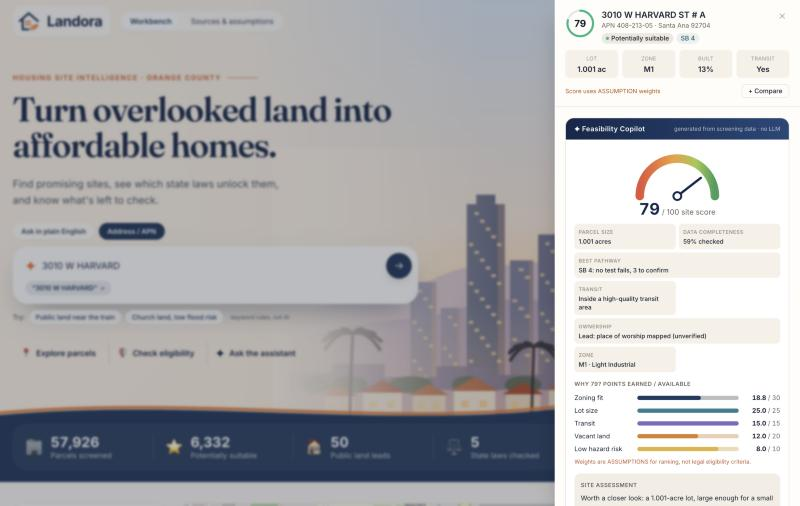
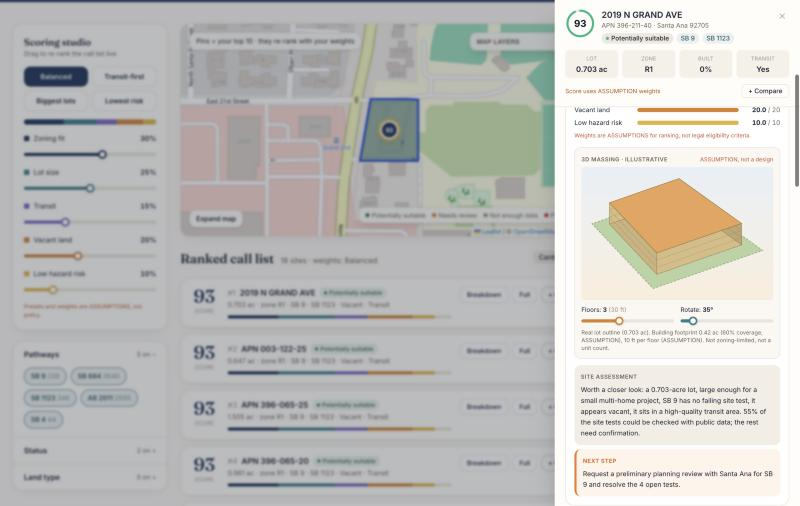
Film: community, intelligence and technology scenes, new design screens
72-second film. New scenes: who the tool helps (with live counts),
where the intelligence is (built with Claude vs rules over data inside
the app, stated plainly), and the technology stack. Montage now uses
current screens: landing page, dashboard and the Feasibility Copilot
with the 3D massing.

diff --git a/lanes/1-find-it/oc-housing-finder/app/src/app/film/page.tsx b/lanes/1-find-it/oc-housing-finder/app/src/app/film/page.tsx
@@ -5,7 +5,7 @@
 import { useEffect, useRef, useState } from "react";
 import { Muxer, ArrayBufferTarget } from "mp4-muxer";
 
-const W = 1920, H = 1080, FPS = 30, DUR = 50;
+const W = 1920, H = 1080, FPS = 30, DUR = 72;
 const IV = "#FAF7F2", PAPER = "#FFFDF9", INK = "#1B2433", MUTED = "#6B6458", LINE = "#E9E2D6";
 const NAVY = "#1f3a5f", TEAL = "#2a7f8f", VIOLET = "#7c6bc4", AMBER = "#d9822b", SAFFRON = "#e2b33c", TERRA = "#c2562e", SAGE = "#3f7d5c";
 const FACT = [
@@ -218,18 +218,81 @@ function frame(g: CanvasRenderingContext2D, t: number, d: Data) {
       text(g, h, 210, y + 88, { size: 40, w: 700, a: a * clamp(p) }); text(g, l, 520, y + 88, { size: 36, a: a * clamp(p) }); text(g, r, 1150, y + 88, { size: 36, w: 600, c, a: a * clamp(p) }); });
     caption(g, "Sources disagree, and the tool shows it instead of picking one", a * ease(seg(t, 40, 40.5)));
   }
-  // S8 App montage 43-47.5
-  if (t >= 43 && t < 48) {
-    const a = ease(seg(t, 43, 43.6)) * (1 - seg(t, 47.4, 48));
+  // S7b Who it helps 43-50.5
+  if (t >= 43 && t < 51) {
+    const a = ease(seg(t, 43, 43.6)) * (1 - seg(t, 50.4, 51));
+    text(g, "Who it helps", 160, 200, { font: "d", size: 76, w: 600, a });
+    text(g, "Land is the biggest line on the bill, and small teams can't see it.", 160, 262, { size: 36, c: MUTED, a });
+    const people: [string, string, string, string][] = [
+      ["Small housing nonprofits", "Get a ranked call list without a GIS team", "🏘", NAVY],
+      ["Congregations with a lot", "See if their land could host homes (SB 4)", "⛪", TERRA],
+      ["City housing staff", "Flag hazards and stale site lists first", "🏛", TEAL],
+    ];
+    people.forEach(([h, sub, ic, c], i) => {
+      const p = outBack(seg(t, 44 + i * 0.6, 44.8 + i * 0.6)); const x = 160 + i * 560, y = 330 + (1 - clamp(p)) * 60;
+      card(g, x, y, 520, 330, a * clamp(p));
+      g.save(); g.globalAlpha = a * clamp(p); rr(g, x + 36, y + 36, 96, 96, 24); g.fillStyle = c; g.fill(); g.restore();
+      text(g, ic, x + 84, y + 106, { size: 52, align: "center", a: a * clamp(p), c: "#fff" });
+      text(g, h, x + 36, y + 205, { size: 38, w: 700, a: a * clamp(p) });
+      text(g, sub.length > 34 ? sub.slice(0, sub.lastIndexOf(" ", 34)) : sub, x + 36, y + 255, { size: 28, c: MUTED, a: a * clamp(p) });
+      if (sub.length > 34) text(g, sub.slice(sub.lastIndexOf(" ", 34) + 1), x + 36, y + 292, { size: 28, c: MUTED, a: a * clamp(p) });
+    });
+    const nLayers = Object.values(d.meta.layers).filter(Boolean).length + 2;
+    const stats: [string, string][] = [[String(d.meta.laws.laws.length), "state laws tested"], [String(nLayers), "public data layers checked"], [fmt(d.meta.counts.parcels_screened), "parcels screened"]];
+    stats.forEach(([n, l], i) => { const p = ease(seg(t, 46.4 + i * 0.4, 47.2 + i * 0.4));
+      text(g, n, 160 + i * 560, 800, { font: "d", size: 84, w: 700, c: NAVY, a: a * p }); text(g, l, 160 + i * 560, 850, { size: 32, c: MUTED, a: a * p }); });
+    text(g, "From weeks of map-hopping to one ranked list, with the sources on screen.", 160, 960, { size: 38, w: 600, c: TERRA, a: a * ease(seg(t, 48.2, 49)) });
+  }
+  // S7c Where the intelligence is 51-58.5
+  if (t >= 51 && t < 59) {
+    const a = ease(seg(t, 51, 51.6)) * (1 - seg(t, 58.4, 59));
+    text(g, "Where the intelligence is", 160, 190, { font: "d", size: 76, w: 600, a });
+    // left: built with Claude
+    card(g, 160, 250, 800, 640, a * ease(seg(t, 51.4, 52)));
+    pill(g, "BUILT WITH CLAUDE", 200, 290, NAVY, "#fff", 24, a * ease(seg(t, 51.6, 52.2)));
+    const built = ["Read HCD's fact sheets and turned each law into tests, with quotes", "Inspected every data layer's fields before using it", "Wrote the pipeline, the rules engine and this app", "Caught source conflicts: size, vacancy, zone"];
+    built.forEach((b, i) => { const p = ease(seg(t, 52.2 + i * 0.5, 52.9 + i * 0.5)); const y = 410 + i * 120;
+      g.save(); g.globalAlpha = a * p; g.fillStyle = TEAL; g.beginPath(); g.arc(215, y - 10, 9, 0, 7); g.fill(); g.restore();
+      const words = b.split(" "); let line = "", ly = y; for (const w of words) { if ((line + w).length > 36) { text(g, line, 245, ly, { size: 30, a: a * p }); line = ""; ly += 40; } line += w + " "; } text(g, line, 245, ly, { size: 30, a: a * p }); });
+    // right: inside the app
+    card(g, 1000, 250, 760, 640, a * ease(seg(t, 51.8, 52.4)));
+    pill(g, "INSIDE THE APP · RULES OVER DATA", 1040, 290, TERRA, "#fff", 24, a * ease(seg(t, 52, 52.6)));
+    const feats: [string, string][] = [["Plain-English search", "→ filter chips you can remove"], ["Feasibility Copilot", "score, assessment, next step"], ["Assistant", "answers only from screening data"], ["Drafted city email", "never sent for you"]];
+    feats.forEach(([h, sub], i) => { const p = outBack(seg(t, 53 + i * 0.5, 53.7 + i * 0.5)); const y = 395 + i * 118 + (1 - clamp(p)) * 30;
+      g.save(); g.globalAlpha = a * clamp(p); rr(g, 1040, y - 38, 56, 56, 14); g.fillStyle = "#fff4ea"; g.fill(); g.restore();
+      text(g, "✦", 1068, y - 2, { size: 32, c: "#f07a2c", align: "center", a: a * clamp(p) });
+      text(g, h, 1115, y - 6, { size: 34, w: 700, a: a * clamp(p) }); text(g, sub, 1115, y + 30, { size: 26, c: MUTED, a: a * clamp(p) }); });
+    text(g, "No language model runs in the app, so nothing can be invented. Every line traces to a test result.", 960, 970, { size: 34, w: 600, c: NAVY, align: "center", a: a * ease(seg(t, 55.8, 56.6)) });
+  }
+  // S7d Technology 59-65.5
+  if (t >= 59 && t < 66) {
+    const a = ease(seg(t, 59, 59.6)) * (1 - seg(t, 65.4, 66));
+    text(g, "Technology", 160, 200, { font: "d", size: 76, w: 600, a });
+    const groups: [string, string, string[]][] = [
+      ["Interface", NAVY, ["Next.js 14", "React 18", "TypeScript", "Tailwind CSS", "Leaflet maps"]],
+      ["Data pipeline", TEAL, ["Python 3.9", "Shapely 2.0", "ArcGIS REST", "GeoJSON"]],
+      ["Public data", AMBER, ["Santa Ana GIS", "SCAG", "FEMA NFHL", "CAL FIRE", "Caltrans", "HCD", "OpenStreetMap", "US Census"]],
+      ["Built and filmed with", VIOLET, ["Claude Code", "WebCodecs + mp4-muxer"]],
+    ];
+    groups.forEach(([h, c, items], gi) => { const gy = 290 + gi * 185; const gp = ease(seg(t, 59.5 + gi * 0.5, 60.2 + gi * 0.5));
+      g.save(); g.globalAlpha = a * gp; rr(g, 160, gy - 40, 10, 130, 5); g.fillStyle = c; g.fill(); g.restore();
+      text(g, h, 200, gy, { size: 34, w: 700, c, a: a * gp });
+      let x = 200; items.forEach((it, i) => { const p = outBack(seg(t, 60 + gi * 0.5 + i * 0.12, 60.6 + gi * 0.5 + i * 0.12));
+        x += pill(g, it, x, gy + 24 + (1 - clamp(p)) * 20, "#fff", INK, 30, a * clamp(p)) + 14; }); });
+    caption(g, "All public data, all free to use. On a fresh laptop: npm install, then npm run dev.", a * ease(seg(t, 63.2, 63.9)));
+  }
+  // S8 App montage 65-69.5
+  if (t >= 65 && t < 70) {
+    const a = ease(seg(t, 65, 65.6)) * (1 - seg(t, 69.4, 70));
     const shots = ["workbench", "compare", "layers"];
-    shots.forEach((k, i) => { const im = d.imgs[k]; if (!im) return; const p = ease(seg(t, 43.3 + i * 0.5, 44.1 + i * 0.5));
+    shots.forEach((k, i) => { const im = d.imgs[k]; if (!im) return; const p = ease(seg(t, 65.3 + i * 0.5, 66.1 + i * 0.5));
       const w = 820, h = w * im.height / im.width; const x = 120 + i * 560, y = 250 + (i % 2) * 120 + (1 - p) * 80;
       g.save(); g.globalAlpha = a * p; g.shadowColor = "rgba(27,36,51,.25)"; g.shadowBlur = 50; g.shadowOffsetY = 20; rr(g, x, y, w, h, 18); g.clip(); g.drawImage(im, x, y, w, h); g.restore(); });
     text(g, "Search · score · compare · map layers · ask", W / 2, 170, { font: "d", size: 60, w: 600, align: "center", a });
   }
-  // S9 End 47.5-50
-  if (t >= 47.5) {
-    const a = ease(seg(t, 47.5, 48.2));
+  // S9 End 69.5-72
+  if (t >= 69.5) {
+    const a = ease(seg(t, 69.5, 70.2));
     skyline(g, a, 1);
     logo(g, d, W / 2 - 250, 300, 120, a);
     wordmark(g, W / 2 + 60, 335, 110, a);
